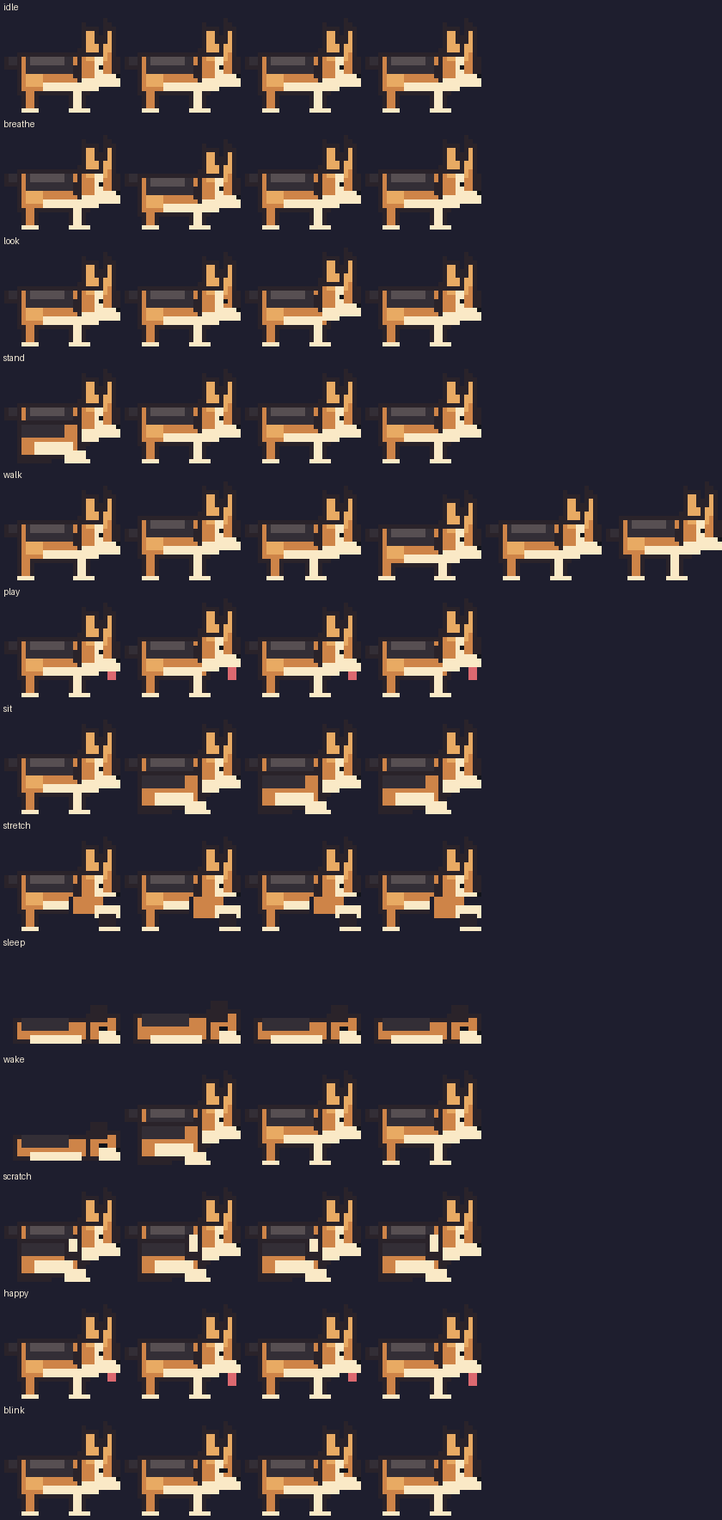
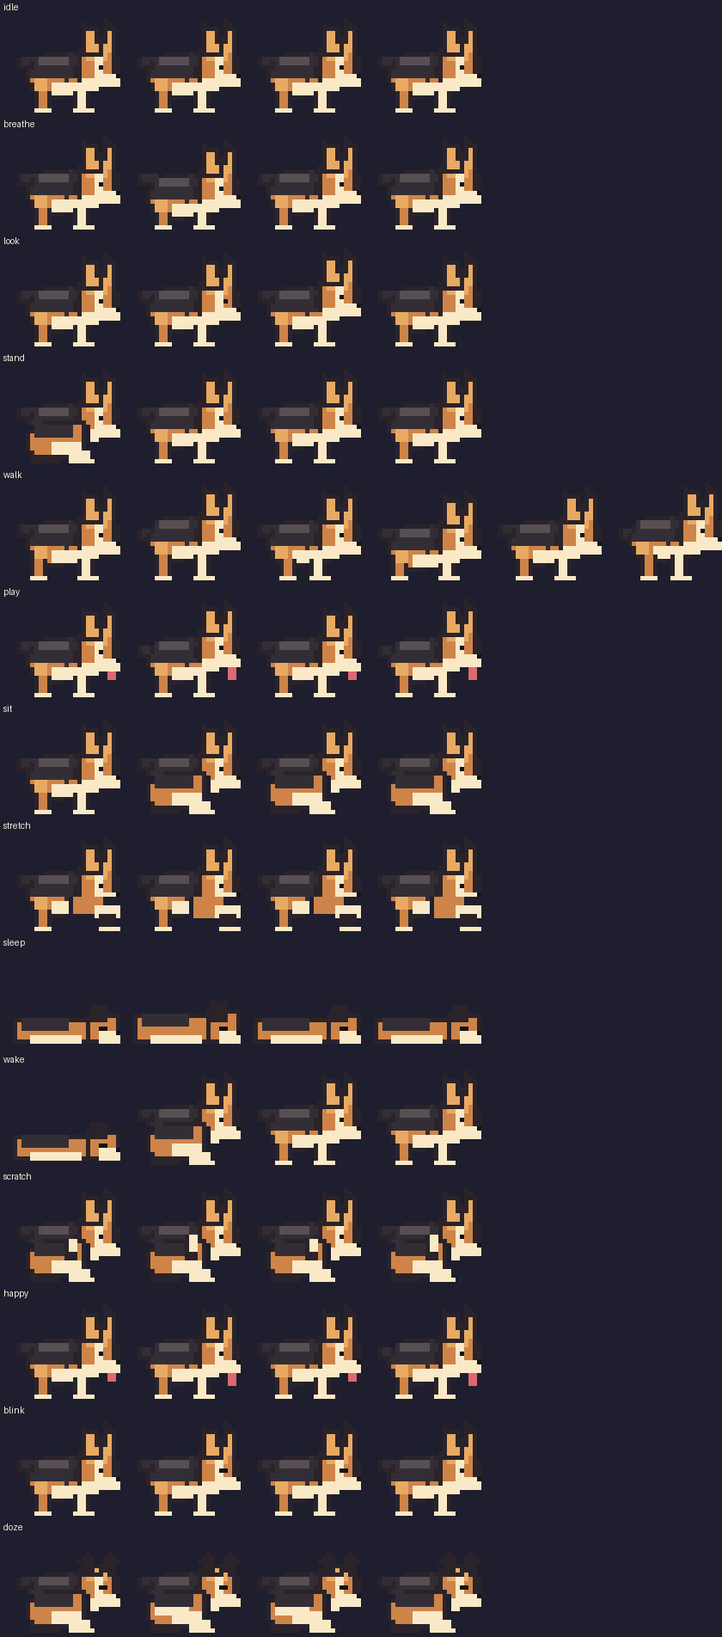
fix: refine M4 corgi art and unfocused doze

Changed region(s): [[0.0, 0.0311, 0.4952, 1.0], [0.5262, 0.0311, 0.8357, 1.0], [0.8667, 0.28, 1.0, 0.4044]]

diff --git a/tools/make_m4_art.py b/tools/make_m4_art.py
@@ -34,7 +34,7 @@ GRASS_DARK = (49, 105, 66, 255)
 LEAF = (122, 169, 84, 255)
 FLOWER = (246, 217, 122, 255)
 BLUE = (112, 181, 197, 255)
-BALL = (218, 110, 91, 255)
+BALL = (199, 225, 82, 255)  # classic yellow-green tennis felt
 
 
 def _image(width: int, height: int) -> Image.Image:
@@ -46,22 +46,25 @@ def _standing(frame: int, pose: str) -> Image.Image:
     d = ImageDraw.Draw(image)
     bob = (0, -1, 0, 1, 0, -1)[frame % 6] if pose == "walk" else (1 if pose == "breathe" and frame == 1 else 0)
     tail_y = 10 + (frame % 2 if pose in ("walk", "happy", "play") else 0)
-    d.rectangle((1, tail_y, 5, tail_y + 2), fill=O)
-    d.rectangle((2, tail_y, 5, tail_y + 1), fill=K)
-    d.rectangle((4, 9 + bob, 20, 18 + bob), fill=O)
-    d.rectangle((5, 10 + bob, 19, 17 + bob), fill=T)
-    d.rectangle((6, 10 + bob, 16, 13 + bob), fill=K)
-    d.rectangle((7, 10 + bob, 14, 11 + bob), fill=KH)
-    d.rectangle((10, 16 + bob, 18, 17 + bob), fill=W)
-    d.rectangle((6, 14 + bob, 9, 16 + bob), fill=TH)
+    d.rectangle((4, tail_y, 8, tail_y + 2), fill=O)
+    d.rectangle((5, tail_y, 8, tail_y + 1), fill=K)
+    # Rounded haunch and deeper chest replace the long rectangular torso.
+    d.ellipse((6, 9 + bob, 18, 19 + bob), fill=O)
+    d.rectangle((12, 9 + bob, 20, 18 + bob), fill=O)
+    d.ellipse((7, 10 + bob, 17, 18 + bob), fill=T)
+    d.rectangle((13, 10 + bob, 19, 17 + bob), fill=T)
+    d.polygon(((8, 10 + bob), (16, 9 + bob), (19, 13 + bob), (15, 15 + bob), (7, 14 + bob)), fill=K)
+    d.rectangle((9, 10 + bob, 15, 11 + bob), fill=KH)
+    d.rectangle((12, 16 + bob, 19, 18 + bob), fill=W)
+    d.rectangle((8, 15 + bob, 10, 17 + bob), fill=TH)
     # Short legs alternate in the walk, while other poses keep their paws planted.
     leg_shift = ((frame % 3) - 1) if pose == "walk" else 0
-    d.rectangle((5 + leg_shift, 18 + bob, 8 + leg_shift, 22), fill=O)
-    d.rectangle((6 + leg_shift, 18 + bob, 7 + leg_shift, 21), fill=T)
-    d.rectangle((5 + leg_shift, 22, 8 + leg_shift, 22), fill=W)
-    d.rectangle((16 - leg_shift, 18 + bob, 19 - leg_shift, 22), fill=O)
-    d.rectangle((17 - leg_shift, 18 + bob, 18 - leg_shift, 21), fill=W)
-    d.rectangle((16 - leg_shift, 22, 20 - leg_shift, 22), fill=W)
+    d.rectangle((8 + leg_shift, 18 + bob, 11 + leg_shift, 22), fill=O)
+    d.rectangle((9 + leg_shift, 18 + bob, 10 + leg_shift, 21), fill=T)
+    d.rectangle((8 + leg_shift, 22, 11 + leg_shift, 22), fill=W)
+    d.rectangle((17 - leg_shift, 18 + bob, 20 - leg_shift, 22), fill=O)
+    d.rectangle((18 - leg_shift, 18 + bob, 19 - leg_shift, 21), fill=W)
+    d.rectangle((17 - leg_shift, 22, 21 - leg_shift, 22), fill=W)
     head_shift = -1 if pose == "look" and frame == 2 else 0
     head_bob = -1 if pose == "play" and frame in (1, 3) else 0
     hy = 7 + bob + head_shift + head_bob
@@ -90,13 +93,15 @@ def _standing(frame: int, pose: str) -> Image.Image:
 def _sitting(frame: int, pose: str) -> Image.Image:
     image = _standing(frame, "idle")
     d = ImageDraw.Draw(image)
-    d.rectangle((3, 14, 18, 23), fill=(0, 0, 0, 0))
-    d.rectangle((4, 13, 18, 21), fill=O)
-    d.rectangle((5, 14, 17, 20), fill=T)
-    d.rectangle((5, 14, 14, 16), fill=K)
-    d.rectangle((8, 18, 16, 20), fill=W)
-    d.rectangle((4, 21, 11, 22), fill=O)
-    d.rectangle((15, 20, 19, 22), fill=W)
+    d.rectangle((5, 14, 20, 23), fill=(0, 0, 0, 0))
+    d.ellipse((6, 13, 17, 22), fill=O)
+    d.rectangle((13, 13, 19, 21), fill=O)
+    d.ellipse((7, 14, 16, 21), fill=T)
+    d.rectangle((14, 14, 18, 20), fill=T)
+    d.rectangle((8, 14, 16, 16), fill=K)
+    d.rectangle((12, 18, 18, 20), fill=W)
+    d.rectangle((7, 21, 13, 22), fill=O)
+    d.rectangle((16, 20, 20, 22), fill=W)
     if pose == "scratch":
         # A hind paw comes up toward the cheek on alternating frames.
         d.rectangle((15, 13 - frame % 2, 17, 17), fill=O)
@@ -121,6 +126,19 @@ def _sleeping(frame: int) -> Image.Image:
     return image
 
 
+def _dozing(frame: int) -> Image.Image:
+    image = _sitting(frame, "sit")
+    d = ImageDraw.Draw(image)
+    # Lower ears and a closed eye read as a peaceful, upright rest.
+    d.rectangle((18, 0, 27, 6), fill=(0, 0, 0, 0))
+    d.polygon(((18, 6), (20, 4), (22, 7), (21, 9)), fill=O)
+    d.polygon(((23, 7), (25, 4), (27, 6), (25, 9)), fill=O)
+    d.line((23, 12, 24, 12), fill=E)
+    if frame in (1, 2):
+        d.rectangle((8, 17, 15, 18), fill=W)
+    return image
+
+
 def _stretching(frame: int) -> Image.Image:
     image = _standing(frame, "idle")
     d = ImageDraw.Draw(image)
@@ -135,6 +153,8 @@ def _stretching(frame: int) -> Image.Image:
 def corgi_frame(pose: str, frame: int) -> Image.Image:
     if pose == "sleep":
         return _sleeping(frame)
+    if pose == "doze":
+        return _dozing(frame)
     if pose == "sit":
         return _standing(0, "idle") if frame == 0 else _sitting(frame, "sit")
     if pose == "stand":
@@ -152,7 +172,7 @@ PET_ROWS = (
     ("idle", 4), ("breathe", 4), ("look", 4), ("stand", 4),
     ("walk", 6), ("play", 4), ("sit", 4), ("stretch", 4),
     ("sleep", 4), ("wake", 4), ("scratch", 4), ("happy", 4),
-    ("blink", 4),
+    ("blink", 4), ("doze", 4),
 )
 
 
@@ -208,13 +228,19 @@ def doghouse() -> Image.Image:
     d.polygon(((0, 11), (15, 0), (30, 11), (27, 14), (15, 5), (3, 14)), fill=O)
     d.polygon(((2, 11), (15, 2), (28, 11), (26, 12), (15, 4), (4, 12)), fill=ROOF)
     d.line((5, 9, 15, 2, 25, 9), fill=ROOF_LIGHT)
+    for x, y in ((7, 9), (11, 6), (16, 5), (21, 7), (25, 10)):
+        d.line((x, y, x + 2, y), fill=ROOF_LIGHT)
     d.rectangle((4, 13, 26, 25), fill=O)
     d.rectangle((5, 14, 25, 24), fill=WOOD)
     for y in (17, 21):
         d.line((5, y, 25, y), fill=WOOD_LIGHT)
+    d.line((7, 15, 7, 23), fill=WOOD_LIGHT)
+    d.line((23, 15, 23, 23), fill=WOOD_LIGHT)
+    d.point((9, 19), fill=ROOF)
+    d.point((22, 22), fill=ROOF)
     d.ellipse((11, 16, 20, 26), fill=O)
     d.ellipse((12, 17, 19, 26), fill=K)
-    d.rectangle((14, 17, 16, 22), fill=WOOD)
+    d.line((11, 24, 20, 24), fill=WOOD_LIGHT)
     return image
 
 

diff --git a/tests/test_m4_build.py b/tests/test_m4_build.py
@@ -39,10 +39,19 @@ class M4BuildTests(unittest.TestCase):
     def test_animation_clips_and_layers_are_present(self) -> None:
         clips = {clip.name: clip for clip in self.pet.clips}
         self.assertTrue({"idle", "breathe", "look", "stand", "walk", "play", "sit",
-                         "stretch", "sleep", "wake", "scratch", "happy", "blink"} <= clips.keys())
+                         "stretch", "sleep", "wake", "scratch", "happy", "blink", "doze"} <= clips.keys())
         self.assertEqual(len(clips["walk"].durations_ms), 6)
         self.assertEqual(select_frame(clips["walk"], 140), 1)
         self.assertEqual(select_frame(clips["stand"], 3000), 3)
+        with Image.open(self.pet.sheet) as sheet:
+            sleep = clips["sleep"]
+            doze = clips["doze"]
+            sleep_frame = sheet.crop((0, sleep.row * self.pet.frame_height,
+                                      self.pet.frame_width, (sleep.row + 1) * self.pet.frame_height))
+            doze_frame = sheet.crop((0, doze.row * self.pet.frame_height,
+                                     self.pet.frame_width, (doze.row + 1) * self.pet.frame_height))
+        self.assertGreater(sleep_frame.getchannel("A").getbbox()[1], 10)  # prone nap
+        self.assertLess(doze_frame.getchannel("A").getbbox()[1], 8)  # upright doze
         layers = {layer.name: layer for layer in self.scene.layers}
         self.assertEqual({"ground", "tree-trunk", "tree-canopy", "doghouse", "flowers",
                           "leaf", "butterfly", "ball"}, layers.keys())
@@ -88,7 +97,8 @@ class M4BuildTests(unittest.TestCase):
         self.assertEqual(layer_state(layers["tree-canopy"], 0, True).frame, 0)
         self.assertEqual(layer_state(layers["tree-canopy"], 1.3, True).frame, 1)
         self.assertEqual(layer_state(layers["tree-canopy"], 1.3, False).frame, 0)
-        self.assertEqual(evaluate(self.scene, self.pet, 50, 0, False).clip, "sleep")
+        self.assertEqual(evaluate(self.scene, self.pet, 50, 0, False).clip, "doze")
+        self.assertEqual(evaluate(self.scene, self.pet, 87, 0, True).clip, "sleep")
         self.assertEqual(evaluate(self.scene, self.pet, 50.2, 50, True).clip, "wake")
         self.assertEqual(evaluate(self.scene, self.pet, 51, 50, True).episode, "refocus-rest")
 
@@ -156,6 +166,8 @@ class M4BuildTests(unittest.TestCase):
                 lambda d: d["layers"][5].update(to=[109, 8]),
                 lambda d: d["layers"][6].update(active_ms=61000),
                 lambda d: d["layers"][7].update(motion="path"),
+                lambda d: d.update(unfocused_clip="missing"),
+                lambda d: d.pop("unfocused_clip"),
                 lambda d: d["episodes"][6]["phases"][2].update(object_from_x=2),
                 lambda d: d["episodes"][6]["phases"][4].update(object_to_x=20),
                 lambda d: d["episodes"][6]["phases"][-1].update(object_to_x=1),

diff --git a/tools/m4_model.py b/tools/m4_model.py
@@ -57,6 +57,7 @@ class Scene4:
     inset: int
     seed: int
     slot_ms: int
+    unfocused_clip: str
     layers: tuple[Layer, ...]
     interactive_index: int
     palette: tuple[tuple[int, int, int], ...]
@@ -190,6 +191,9 @@ def load_scene(path: Path, pet: Pet) -> Scene4:
     clips = {clip.name for clip in pet.clips}
     if not {"idle", "sleep", "wake"} <= clips:
         raise ValueError("idle, sleep and wake clips are required")
+    unfocused_clip = data.get("unfocused_clip")
+    if not isinstance(unfocused_clip, str) or unfocused_clip not in clips:
+        raise ValueError("unfocused_clip must reference a pet clip")
     episodes_data = data.get("episodes")
     if not isinstance(episodes_data, list) or not 1 <= len(episodes_data) <= 32:
         raise ValueError("episodes must contain 1..32 entries")
@@ -241,7 +245,7 @@ def load_scene(path: Path, pet: Pet) -> Scene4:
         if previous_pet != 0 or previous_object != 0 or total > slot_ms:
             raise ValueError(f"{episode_name}: pet and object must return home within slot")
         episodes.append(Episode4(episode_name, weight, tuple(phases)))
-    return Scene4(name, width, height, ground_y, home_x, inset, seed, slot_ms,
+    return Scene4(name, width, height, ground_y, home_x, inset, seed, slot_ms, unfocused_clip,
                   tuple(layers), interactive_index, tuple(palette), tuple(pixels), tuple(episodes))
 
 
@@ -284,7 +288,8 @@ def layer_state(layer: Layer, time_s: float, focused: bool, object_x: float = 0.
 def evaluate(scene: Scene4, pet: Pet, time_s: float, focus_s: float, focused: bool) -> Pose4:
     clips = {clip.name: clip for clip in pet.clips}
     if not focused:
-        return Pose4("sleeping", "sleep", "sleep", select_frame(clips["sleep"], time_s * 1000), 0, "right", 0, 1)
+        clip = scene.unfocused_clip
+        return Pose4("sleeping", "unfocused-rest", clip, select_frame(clips[clip], time_s * 1000), 0, "right", 0, 1)
     focus_age_ms = max(0.0, (time_s - focus_s) * 1000)
     fade = 1.0 if focus_s <= 0 else min(1.0, focus_age_ms / 650.0)
     if focus_s > 0 and focus_age_ms < 650:

diff --git a/tools/preview_m4.py b/tools/preview_m4.py
@@ -19,13 +19,13 @@ else:
 OUTPUT = ROOT / "docs/evidence/m4"
 
 
-def scene_at(time_s: float, background: tuple[int, int, int]) -> Image.Image:
+def scene_at(time_s: float, background: tuple[int, int, int], focused: bool = True) -> Image.Image:
     pet = load_pet(DEFAULT_PET)
     scene = load_scene(DEFAULT_SCENE, pet)
-    pose = evaluate(scene, pet, time_s, 0, True)
+    pose = evaluate(scene, pet, time_s, 0, focused)
     image = Image.new("RGBA", (scene.width, scene.height), (*background, 255))
     for layer in scene.layers:
-        state = layer_state(layer, time_s, True, pose.object_x)
+        state = layer_state(layer, time_s, focused, pose.object_x)
         if not state.visible:
             continue
         with Image.open(layer.file) as sheet:
@@ -81,10 +81,24 @@ def contact_sheet() -> Image.Image:
     return result
 
 
+def focus_preview() -> Image.Image:
+    scale = 5
+    width, height = 110 * scale, 45 * scale
+    result = Image.new("RGB", (width * 2, height + 18), (24, 23, 31))
+    draw = ImageDraw.Draw(result)
+    for index, (focused, label) in enumerate(((True, "focused: breathing"), (False, "unfocused: upright doze"))):
+        x = index * width
+        draw.text((x + 4, 3), label, fill=(245, 236, 216), font=ImageFont.load_default())
+        panel = scene_at(12.5, (30, 30, 46), focused).convert("RGB").resize((width, height), Image.Resampling.NEAREST)
+        result.paste(panel, (x, 18))
+    return result
+
+
 def main() -> None:
     OUTPUT.mkdir(parents=True, exist_ok=True)
     montage().save(OUTPUT / "source-preview.png")
     contact_sheet().save(OUTPUT / "animation-contact-sheet.png")
+    focus_preview().save(OUTPUT / "focus-preview.png")
 
 
 if __name__ == "__main__":

diff --git a/tools/build_m4.py b/tools/build_m4.py
@@ -125,8 +125,8 @@ def _definitions(pet: Pet, scene: Scene4, scale: int) -> str:
         f"const int M4_SLOT_MS = {scene.slot_ms};",
         f"const uint M4_SEED = {scene.seed}u;",
         f"const int M4_IDLE = {clip_ids['idle']};",
-        f"const int M4_SLEEP = {clip_ids['sleep']};",
         f"const int M4_WAKE = {clip_ids['wake']};",
+        f"const int M4_UNFOCUSED = {clip_ids[scene.unfocused_clip]};",
         f"const int M4_LAYER_COUNT = {len(scene.layers)};",
         _array("int", "M4_CLIP_START", clip_starts),
         _array("int", "M4_CLIP_COUNT", clip_counts),
@@ -204,7 +204,7 @@ int m4PetFrame(int clip, float elapsedMs) {
 
 void m4Pose(out int clip, out float clipMs, out float petX,
             out int flip, out float objectX, out float fade) {
-    clip = M4_SLEEP;
+    clip = M4_UNFOCUSED;
     clipMs = iTime * 1000.0;
     petX = 0.0;
     flip = 0;

diff --git a/docs/M4_REPORT.md b/docs/M4_REPORT.md
@@ -1,25 +1,27 @@
 # M4 — corgi and living backyard
 
-- **Status:** PARTIAL — source art, layered renderer, and automated checks are ready; actual Ghostty visual and runtime-performance review remain.
+- **Status:** PARTIAL — initial M4 behavior received positive user feedback; revised artwork and doze pose await Ghostty visual approval. Runtime performance remains unmeasured.
 - **Branch/worktree:** `codex/m4-backyard` in `.worktrees/m4`.
-- **Scope:** 13 tricolor corgi animation clips, eight ordered backyard layers, subtle tree/flower loops, periodic falling leaf and butterfly, one synchronized ball-play episode, versioned scene schema 3, and a standalone 2× review shader. M1–M3 source and artifacts remain unchanged.
+- **Scope:** 14 tricolor corgi animation clips, eight ordered backyard layers, subtle tree/flower loops, periodic falling leaf and butterfly, one synchronized ball-play episode, versioned scene schema 3, and a standalone 2× review shader. M1–M3 source and artifacts remain unchanged.
 
 ## Decision log
 
 1. [ADR-0012](adr/0012-layered-m4-scene.md) defines ordered RGBA layers and one interactive object for scene schema 3. The ball and pet share each episode phase clock, with validated connected paths and a home return. The generic compiler references asset IDs and metadata; no corgi-specific shader branch is required.
-2. All animation and ambient scheduling stays input-independent under ADR-0011. Focus selects sleep/wake; unfocused layers stop periodic path motion when rendered. M2 cursor proximity and text-aware visibility remain a separate compositing layer.
-3. The corgi sheet has 4–6 frames per clip and a fixed tricolor palette. The 110 × 45 backyard canvas contains open transparent gaps; source art remains editable PNG. The offline [scene preview](evidence/m4/source-preview.png) and [animation contact sheet](evidence/m4/animation-contact-sheet.png) are review aids, **not Ghostty captures**.
-4. The first compiled shader was 79,274 bytes and a Linux process launch with a 2 s child command took 9.02 s. Deduplicating identical pet frames reduced output to **42,065 bytes** and the same launch method took **3.98 s**. These wall times include Ghostty startup and child lifetime; they are not isolated shader-compile measurements. The optimization preserves all authored PNG frames.
+2. All animation and ambient scheduling stays input-independent under ADR-0011. Focus selects resting/wake behavior; unfocused layers stop periodic path motion when rendered. M2 cursor proximity and text-aware visibility remain a separate compositing layer.
+3. The corgi sheet has 4–6 frames per clip and a fixed tricolor palette. The 110 × 45 backyard canvas contains open transparent gaps; source art remains editable PNG. The offline [scene preview](evidence/m4/source-preview.png), [animation contact sheet](evidence/m4/animation-contact-sheet.png), and [focus preview](evidence/m4/focus-preview.png) are review aids, **not Ghostty captures**.
+4. The first compiled shader was 79,274 bytes and a Linux process launch with a 2 s child command took 9.02 s. Deduplicating identical pet frames reduced output to 42,065 bytes and the same launch method took 3.98 s. The revised 14-clip shader is **44,326 bytes**; its Linux launch took **5.35 s** with the same 2 s child. These wall times include Ghostty startup and child lifetime; they are not isolated shader-compile measurements. The optimization preserves all authored PNG frames.
 5. M4 uses one whole-object visibility region for each environment layer and three horizontal pet regions. This prioritizes readable text but may fade a wide ground strip when only one part overlaps text. The denser scene needs manual text/TUI validation; the M2 heuristic cannot guarantee semantic text detection.
+6. The user reported that the initial M4 scene looked good, animation continued during typing, text/cursor overlap faded, and focus loss selected sleep. They described the prone focus-loss pose as looking like the corgi dropped dead, the body as too long, an unclear shape in the doghouse, and the ball color as unsuitable. [ADR-0013](adr/0013-unfocused-doze-pose.md) changes unfocused panes to an upright doze selected by scene metadata. The art revision rounds and shortens the corgi, clears the doghouse opening, adds roof/wood details, and gives the ball yellow-green felt with white seams. These revisions await user review in Ghostty.
 
 ## Checks and evidence
 
 **Local environment:** Linux, Ghostty `1.3.0-dev+0000000`, GTK/OpenGL build. EGL reported AMD device authorization failure and fallback; the actual rendering GPU was not established. macOS/Metal: **NOT TESTED**.
 
-- `/usr/bin/python3 -m unittest discover -s tests -v`: **22 passed**. Tests cover art regeneration and binary alpha, palette limits, all clips and layers, deterministic episode selection, ball/pet path continuity at every ball phase edge and slot boundary, ambient windows, focus behavior, invalid metadata rejection, alternate pet/scene build, packed-frame round trips after deduplication, standalone shader reproducibility, and byte-for-byte M1–M3 artifact preservation.
-- `/usr/bin/python3 tools/build_m4.py --output dist/m4-corgi-backyard-2x.glsl`: deterministic **42,065-byte** standalone GLSL, below the 128 KiB M4 source budget. Ten in-process generation runs averaged **0.0165 s** on this host.
+- `/usr/bin/python3 -m unittest discover -s tests -v`: **22 passed** after the art revision. Tests cover art regeneration and binary alpha, palette limits, all clips and layers, prone versus upright silhouettes, deterministic episode selection, ball/pet path continuity at every ball phase edge and slot boundary, ambient windows, focus behavior, invalid metadata rejection, alternate pet/scene build, packed-frame round trips after deduplication, standalone shader reproducibility, and byte-for-byte M1–M3 artifact preservation.
+- `/usr/bin/python3 tools/build_m4.py --output dist/m4-corgi-backyard-2x.glsl`: deterministic **44,326-byte** standalone GLSL, below the 128 KiB M4 source budget. The previous 13-clip shader took an average of 0.0165 s across ten in-process generation runs; generation speed was not rebenchmarked after the art revision.
 - Linux Ghostty loaded the deduplicated shader and the child command exited normally, with no shader-compilation failure. Mesa logged two `Shader Compiler: Other` warnings about generated temporary parameters. The same log reported EGL fallback. These warnings need observation on other drivers; successful load does not establish visual correctness.
-- The source art was composited offline over dark and light backgrounds at selected timeline points. It shows a black/tan/white corgi, tree, house, flowers, open grass, and ball. Actual Ghostty color/blending and text overlap are **not yet observed** for M4.
+- The source art was composited offline over dark and light backgrounds at selected timeline points. It shows the revised corgi, tree, empty doghouse opening, flowers, open grass, and tennis ball. The focus preview shows the upright doze against the focused pose. These are offline images, not runtime screenshots.
+- **User-reported initial M4 visual check:** animation stayed continuous during typing; cursor and other text caused fading; loss of focus selected the prone sleep pose. The user did not provide OS, Ghostty version, screenshots, or a performance measurement for this report. The revised art and doze have not been manually validated.
 - `git diff --check`: pass. The M1/M2/M3 builders and generated artifacts have no edits; tests regenerate and compare all seven previous shader files byte for byte.
 - Runtime frame time, GPU utilization, battery cost, and typing latency remain **unmeasured**. The shader uses at most 12 scene layers, eight frames per clip/layer, 16 episode phases, and 20 text probes for an affected opaque fragment; transparent and out-of-scene fragments skip decoding/probing. The current art has at most about 6,300 opaque 2× fragments across simultaneously visible elements, implying a loose worst-case bound near 126,000 text probes per frame before early exits. This bound does not prove acceptable GPU cost.
 
@@ -32,11 +34,11 @@ custom-shader = /home/mtak/dev/ghostty-pets/.worktrees/m4/dist/m4-corgi-backyard
 custom-shader-animation = true
 ```
 
-1. At a normal terminal size, check the corgi's tall ears, short legs, long body, and black/tan/white patches; tree, doghouse, grass, three flowers, and ball should be visible without an opaque panel. Repeat on light and dark themes. Compare the scene with the [offline preview](evidence/m4/source-preview.png); report palette shifts or missing layers.
+1. At a normal terminal size, check the corgi's tall ears, short legs, rounded body, and black/tan/white patches. Confirm the doghouse opening looks empty, roof and wood detail remain legible, and the ball reads as yellow-green tennis felt with white seams. Tree, grass, and three flowers should remain visible without an opaque panel. Repeat on light and dark themes. Compare with the [offline preview](evidence/m4/source-preview.png); report palette shifts or missing layers.
 2. Watch the first minute. The seed selects a left walk at startup, a ball-play episode at roughly 24 s, a right walk around 36 s, a falling leaf around 31–34 s, and a butterfly around 44–48 s. Confirm crisp integer pixels, correct horizontal orientation, subtle ambient motion, and idle/breathe/look frames between activities. Later slots include scratch, stretch, and a short nap. Unfocused panes may freeze until redrawn.
 3. During the ball-play episode, check stand → approach → nudge → chase → return → sit. The ball should roll only with the interaction, remain inside the scene, and return smoothly without a position jump. Check pet and ball at the phase boundaries, especially near 26–30 s.
 4. Type repeatedly during a walk with the cursor away from the scene. The pet and ball timeline should continue without resetting. Move the cursor onto the pet and scene elements; only the nearby region should fade and restore. Place plain/ANSI text, a selection, and a full-screen TUI over pet, house, tree, and ground on both themes. Check that letters remain readable and note excessive or missed fading.
-5. Use two panes, switch focus mid-walk and mid-ball play, and return after 30 s and 5 min. An unfocused pane logically selects sleep on frames it renders; it may visually freeze. On refocus, check the wake transition and home rest until the next complete episode, with no ball teleport. Resize to a narrow/short pane and note where M4 hides the scene; responsive fallbacks are M5 scope.
+5. Use two panes, switch focus mid-walk and mid-ball play, and return after 30 s and 5 min. An unfocused pane should show the upright, eyes-closed doze pose if it redraws; it may visually freeze. The scheduled short nap should still use the prone sleep pose. On refocus, check the wake transition and home rest until the next complete episode, with no ball teleport. Resize to a narrow/short pane and note where M4 hides the scene; responsive fallbacks are M5 scope.
 6. Check typing, scrolling, and split-pane responsiveness for lag. If timing tools are available, measure warmed frame time, shader load, and resource use against M3 in the same setup; record the method. Remove the `custom-shader` line and reload/restart Ghostty to confirm the normal terminal returns.
 
 ## macOS checklist (runtime untested)
@@ -45,10 +47,10 @@ On macOS Ghostty/Metal, record version, Apple hardware, Retina/display scale, an
 
 ## Gate
 
-**Verified:** editable PNG regeneration, source-geometry/palette validation, deterministic layered shader generation, synchronized ball movement in the pure timeline, prior-artifact preservation, offline art composition, and Linux shader load without a compilation failure.
+**Verified:** editable PNG regeneration, source-geometry/palette validation, deterministic layered shader generation, synchronized ball movement in the pure timeline, prior-artifact preservation, offline art composition, and Linux shader load without a compilation failure. The user reported initial M4 typing, visibility, and focus behavior working.
 
 **Inferred:** the bounded scene representation and deduplication reduce source/compile load. They do not establish GPU frame cost or readability in Ghostty.
 
-**Untested:** actual M4 Ghostty visuals and motion, M2 visibility over the expanded scene, focus redraw appearance, reliable runtime performance, and macOS behavior.
+**Untested:** revised artwork and doze appearance in Ghostty, detailed visual/motion checks, reliable runtime performance, and macOS behavior. The user-reported initial behavior does not establish these checks.
 
 **Stop: awaiting human M4 visual validation and approval. M5 has not started.**

diff --git a/docs/M4_FORMAT.md b/docs/M4_FORMAT.md
@@ -4,11 +4,11 @@ M4 keeps pet sheet schema 1 and introduces **scene schema 3** for layered enviro
 
 ## Pet
 
-`assets/pets/corgi/corgi-v1.json` points to `corgi-v1.png`. It uses the [M3 pet format](M3_FORMAT.md): 28 × 24 cells, named animation rows, 1–8 frame durations, loop policy, playback speed, and a ground anchor. The M4 sheet has 4–6 frames per clip for idle, breathing, look, stand, walk, play, sit, stretch, sleep, wake, scratch, happy, and blink. The generator deduplicates identical frame pixels before embedding them; the PNG still contains every editable frame.
+`assets/pets/corgi/corgi-v1.json` points to `corgi-v1.png`. It uses the [M3 pet format](M3_FORMAT.md): 28 × 24 cells, named animation rows, 1–8 frame durations, loop policy, playback speed, and a ground anchor. The M4 sheet has 4–6 frames per clip for idle, breathing, look, stand, walk, play, sit, stretch, sleep, wake, scratch, happy, blink, and upright doze. The generator deduplicates identical frame pixels before embedding them; the PNG still contains every editable frame.
 
 ## Environment
 
-`assets/environments/backyard/backyard-v1.json` declares a 110 × 45 source-pixel canvas, ground and home anchors, inset, deterministic seed, episode slot length, ordered `layers`, and complete `episodes`.
+`assets/environments/backyard/backyard-v1.json` declares a 110 × 45 source-pixel canvas, ground and home anchors, inset, deterministic seed, episode slot length, ordered `layers`, complete `episodes`, and a required `unfocused_clip` reference. The current scene selects the corgi's upright `doze` clip; a prone `sleep` clip remains available for scheduled naps.
 
 Each layer has a unique `id`, a same-directory RGBA `file`, `frame_size`, positive `durations_ms`, and one `motion`:
 
@@ -32,8 +32,8 @@ python3 tools/preview_m4.py
 python3 -m unittest discover -s tests -v
 ```
 
-The two art previews under `docs/evidence/m4/` show PNG source composited offline; they are **not Ghostty screenshots**. Use an absolute `custom-shader` path to the generated file and `custom-shader-animation = true` for runtime review. Remove the `custom-shader` line and reload/restart Ghostty to disable the project. M5 will supply the three release presets and responsive compact-pane fallback.
+The three art previews under `docs/evidence/m4/` show PNG source composited offline; they are **not Ghostty screenshots**. Use an absolute `custom-shader` path to the generated file and `custom-shader-animation = true` for runtime review. Remove the `custom-shader` line and reload/restart Ghostty to disable the project. M5 will supply the three release presets and responsive compact-pane fallback.
 
 ## Rendering and limits
 
-The shader samples the unchanged terminal image, returns it outside the scene, and composites ordered transparent layers followed by the pet. Each opaque scene layer has its own M2-style cursor/text fade region; the pet retains three horizontal regions at its animated position. The text detector remains heuristic. The timeline is independent of typing and uses only shader time plus focus for sleep/wake. All sprite data and palettes are embedded; no runtime PNG load or helper process is used.
+The shader samples the unchanged terminal image, returns it outside the scene, and composites ordered transparent layers followed by the pet. Each opaque scene layer has its own M2-style cursor/text fade region; the pet retains three horizontal regions at its animated position. The text detector remains heuristic. The timeline is independent of typing; focus selects the scene's unfocused clip and a wake transition on return. Ghostty does not provide a focus-loss timestamp, so that pose switch can still be immediate on a rendered frame. All sprite data and palettes are embedded; no runtime PNG load or helper process is used.

diff --git a/README.md b/README.md
@@ -57,7 +57,7 @@ Set `custom-shader` to the absolute path of `dist/m3-placeholder-2x.glsl` and ke
 
 ## M4 corgi and backyard preview
 
-M4 adds editable tricolor corgi frames and a layered backyard with doghouse, tree, flowers, grass, leaf, butterfly, and a ball synchronized to the pet's play episode. The 2× shader is an M4 review artifact; M5 will make the final responsive size variants.
+M4 adds editable tricolor corgi frames and a layered backyard with doghouse, tree, flowers, grass, leaf, butterfly, and a tennis ball synchronized to the pet's play episode. Unfocused panes select an upright doze pose. The 2× shader is an M4 review artifact; M5 will make the final responsive size variants.
 
 ```sh
 python3 tools/make_m4_art.py
@@ -65,7 +65,7 @@ python3 tools/build_m4.py --output dist/m4-corgi-backyard-2x.glsl
 python3 -m unittest discover -s tests -v
 ```
 
-Preview with `custom-shader = /absolute/path/to/ghostty-pets/dist/m4-corgi-backyard-2x.glsl` and `custom-shader-animation = true`. [Source-art preview](docs/evidence/m4/source-preview.png), [animation contact sheet](docs/evidence/m4/animation-contact-sheet.png), [format](docs/M4_FORMAT.md), and [milestone report](docs/M4_REPORT.md) document what to review. Removing `custom-shader` safely disables the overlay.
+Preview with `custom-shader = /absolute/path/to/ghostty-pets/dist/m4-corgi-backyard-2x.glsl` and `custom-shader-animation = true`. [Source-art preview](docs/evidence/m4/source-preview.png), [focus preview](docs/evidence/m4/focus-preview.png), [animation contact sheet](docs/evidence/m4/animation-contact-sheet.png), [format](docs/M4_FORMAT.md), and [milestone report](docs/M4_REPORT.md) document what to review. Removing `custom-shader` safely disables the overlay.
 
 ## Documentation
 

diff --git a/docs/ARCHITECTURE.md b/docs/ARCHITECTURE.md
@@ -70,7 +70,7 @@ Generated files must carry a generator version and source-content fingerprint, n
 
 ## 4. Source asset and data model
 
-**M4 extension:** [ADR-0012](adr/0012-layered-m4-scene.md) adds scene schema 3 with ordered PNG layers, bounded periodic ambient paths, and one interactive object whose horizontal motion is evaluated alongside the pet episode. `docs/M4_FORMAT.md` documents the current source fields. This extends the M3 empty-stage schema while keeping all previous builders and shaders intact.
+**M4 extension:** [ADR-0012](adr/0012-layered-m4-scene.md) adds scene schema 3 with ordered PNG layers, bounded periodic ambient paths, and one interactive object whose horizontal motion is evaluated alongside the pet episode. [ADR-0013](adr/0013-unfocused-doze-pose.md) adds a scene-selected unfocused clip after visual feedback. `docs/M4_FORMAT.md` documents the current source fields. This extends the M3 empty-stage schema while keeping all previous builders and shaders intact.
 
 **PNG:** support sprite sheets with discrete frames on a regular grid; RGBA, consistent frame size per animation, only fully transparent or fully opaque pixels in v1 unless edge behavior is explicitly approved; no automatic blurry resizing. Transparent pixels must not be rendered into the terminal background.
 

diff --git a/docs/adr/0013-unfocused-doze-pose.md b/docs/adr/0013-unfocused-doze-pose.md
@@ -1,0 +1,9 @@
+# ADR-0013 — Upright doze for unfocused panes
+
+**Status:** Accepted for M4 after user visual feedback
+
+**Context:** The first M4 shader immediately selected the prone `sleep` clip when a pane lost focus. The user confirmed focus sleep worked but said the change looked like the corgi dropped dead. Ghostty exposes the last focus-gain time, not a focus-loss timestamp, so a stateless shader cannot time a sit-down transition at the loss event.
+
+**Decision:** Add a scene-selected `unfocused_clip` and an upright, eyes-closed `doze` clip to the corgi sheet. On an unfocused frame, render that in-place resting pose at home. Keep the prone `sleep` clip for complete scheduled nap episodes and retain the M3 wake/refocus logic. The clip name is validated metadata, not a corgi-specific shader branch.
+
+**Consequences:** Focus loss still changes pose immediately on a rendered frame, and an inactive surface may freeze before redrawing. The silhouette change is smaller and reads as resting. Scene schema 3 gains one required clip reference; the source remains PNG/JSON and the runtime remains stateless.
